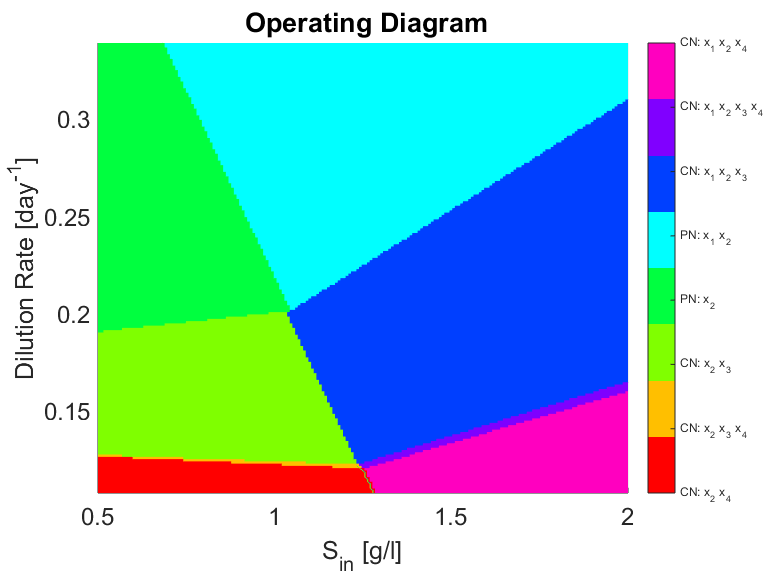
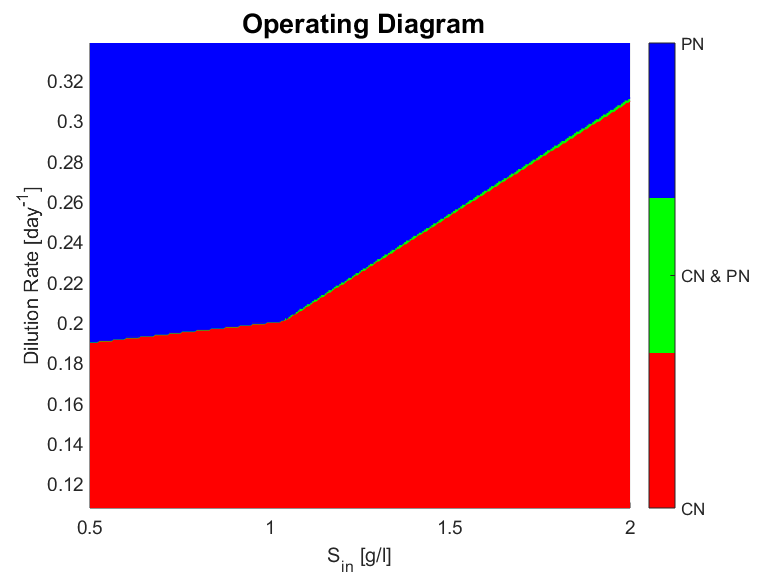
final changes to OD

diff --git a/tex/Article_Interactions.tex b/tex/Article_Interactions.tex
@@ -471,7 +471,7 @@ All the former discussion leads to a potential number of   $ (2^{n_1}-1)\cdot (4
 \end{align}
 
 \subsection{Local Stability and Operating Diagrams}
-For checking local asymptotic stability of the equilibria points, the Jacobian of the system is provided and evaluated at each of these points. The resulting matrix's eigenvalues must have negative real part. A general formula for this Jacobian is presented in the supplementary material.
+For checking local asymptotic stability of the equilibria points, the Jacobian of the system is provided and evaluated at each of these points. The resulting matrix's eigenvalues must have negative real part. A general formula for this Jacobian is presented in the supplementary material \eqref{Jacobian_system}.
 
 The former discussion proposes an algorithm for finding the positive stable equilibrium points 
 
@@ -490,13 +490,13 @@ The former discussion proposes an algorithm for finding the positive stable equi
 
 Algorithm \ref{StabilityAnalysis} implicitly assumes that every submatrix $A'$ is invertible.
 
-Operating diagrams are an illustrative way of representing the long term behaviour of a reactor depending on operating parameters. Operating diagrams are created by running algorithm \ref{StabilityAnalysis} for different pairs $(s_{in},D)$ \cite{lobry2017chemostat}. One then regroups all the pairs such that the set of non-active coordinates of the points of the set $PSP$ are the same and have the same stability properties. This regrouping represents graphically the coexistence of the different OTU in a $D-s_{in}$ plot. In particular for the biological process of nitrification, this allows to represent when partial nitrification (PN) or complete nitrification (CN) may arise \cite{KHIN2004519}. PN refers to the state when nitrite $s_2$, accumulates because the OTU of $G_2$ concentration is very low and thus almost no conversion from $s_2$  to $s_3$ takes place. On the contrary CN is when nitrate ($s_3$) accumulates because of the presence of OTU of $G_2$.
+Operating diagrams are an illustrative way of representing the long term behaviour of a reactor depending on operating parameters. Operating diagrams are created by running algorithm \ref{StabilityAnalysis} for different pairs $(s_{in},D)$ \cite{lobry2017chemostat}. One then regroups all the pairs such that the set of non-active coordinates of the points of the set $PSP$ are the same and have the same stability properties. This regrouping allows to represent when partial nitrification (PN),complete nitrification (CN), or washout (WO) may arise \cite{KHIN2004519}. PN refers to the state when nitrite $s_2$, accumulates because the OTU of $G_2$ concentration is very low (washout of $G_2$) and thus almost no conversion from $s_2$  to $s_3$ takes place. On the contrary CN is when nitrate ($s_3$) accumulates because of the presence of OTU of $G_2$.
 
 The operating diagram from one of the sets of the parameter identification (obtained with a Bayesian estimation method) from Dumont et al. is presented in figure \ref{OD Dumont}. Their fit describes well the dynamics of the OTU, but is not the case for measured substrates. Two OTU per functional group were considered. One can see that coexistence in the same functional group is never attained for one of the parameter set obtained (their method provided several sets of parameters). On the contrary, when using a random interaction matrix, and modifying the kinetic coefficients  (note that $x_1$ and $x_3$ have the same $\mu_i$ and $K_i$ in case 1 and 2) one can see a more complex situation where coexistence in the same functional group is possible as seen in figure \ref{OD modified}. In the latter case CN can be achieved at a more elevated dilution rate than in the former case. Parameters of cases 1 and 2 can be seen in table \ref{Parameters Dumont} and \ref{Parameters Modified}, respectively. 
 
 The model is also  able to overcome the  competitive exclusion principle \cite{lobry2017chemostat} (CEP) paradigm. The CEP roughly states that if two species are growing on the same limiting resource, and their growth laws are non-decreasing in the resource, then only one of them will survive in the long run. However reports on wastewater treatment plants have shown coexistence between species in nitrifying reactors \cite{Wagner2002}, thus implying that a more complex growth law or model structure involving other biological processes is required to include microbial diversity.
 
-As shown in operating diagram \ref{Parameters Modified}, there exists a bi stability zone, which is corroborated from a simulation: depending on the initial conditions of the system the predicted outcome might vary. The therefores
+As shown in operating diagram \ref{Parameters Modified}, there exists a bi stability zone, which is corroborated from a simulation: depending on the initial conditions of the system the predicted outcome might vary.
 
 \begin{table}[ht]
 	\centering
@@ -548,6 +548,10 @@ As shown in operating diagram \ref{Parameters Modified}, there exists a bi stabi
 	\end{subfigure}
 	\caption{Left: random interaction matrix associated with model \eqref{system} for a consortia of 4 bacterial species where $x_1$ and $x_2$ are AOB and $x_3$ and $x_4$ are NOB. Right: associated operating diagram with parameters in Table \ref{Parameters Modified}. The 8 different zones represent the surviving species in the steady state. PN takes place when neither $x_3$ nor $x_4$ are present. CN takes place if $x_3$ or $x_4$ are present.}
 	\label{OD modified}
+\end{figure}
+
+\begin{figure}
+		\includegraphics[width=\textwidth]{ED_parameters_modified}
 \end{figure}
 \clearpage
 
@@ -1204,9 +1208,9 @@ x \rightarrow & \diag(f(s))\left(1_{n\times 1}+ Ax\right)-D_{n\times 1}
 \end{align*}
 
 The first $n$ equations of system \eqref{system} may be written then as$\dot{x} =  h(x) = h_1(\diag(x), h_2(x))$, by the chain rule: 
-\begin{align*} J_h(x) &= D_M h_1(\diag(x),h_2(x))\circ D_x \diag (x) + D_yh_1(\diag(x),h_2(x))\circ D_xh_2(x)  \\ &=
+\begin{align} J_h(x) &= D_M h_1(\diag(x),h_2(x))\circ D_x \diag (x) + D_yh_1(\diag(x),h_2(x))\circ D_xh_2(x)  \\ &=
 \diag(h_2(x))+\diag(x)\diag(f(s))A  \label{n2_entries}
-\end{align*}
+\end{align}
 
 Expression \eqref{n2_entries} corresponds to the first $n\times n$ entries of the Jacobian of system \eqref{system}.
 
@@ -1216,13 +1220,16 @@ f_B' := \left( \dfrac{\partial f_{n_1+1}}{\partial s_2}, \dots, \dfrac{\partial 
 \end{align*}
 
 Then the Jacobian of the system may be expressed as:
-$J(x,s_1,s_2,s_3) = \begin{bmatrix}
+\begin{align}
+\label{Jacobian_system}
+ J(x,s_1,s_2,s_3) = \begin{bmatrix}
 J_{11} & J_{12} & J_{13} & J_{14} \\
 J_{21} & J_{22} & J_{23} & J_{24} \\
 J_{31} & J_{32} & J_{33} & J_{34} \\
 J_{41} & J_{42} & J_{43} & J_{44} 
-\end{bmatrix} $
-
+\end{bmatrix} 
+\end{align} 
+with 
 \begin{align}
 J_{11} &=  \diag(\diag(f(s))(1_{n\times 1} +Ax)-D_{n\times 1})
 +\diag(f(s))\diag(x)A \\

diff --git a/Stability Analysis gLV/test_equilibria.m b/Stability Analysis gLV/test_equilibria.m
@@ -6,17 +6,17 @@ load(sprintf('MAT_files\\%s',file_name_in));
 z0 = random('Uniform',0,1,n+3,1);
 OTU = 1:n;
 options = odeset('NonNegative',1:(nA+nB+3));
-dilution = 0.1993;
+dilution = 0.2906 ;
 D = @(t) dilution;
-s_in = 1.035;
+s_in = 1.829;
 sIn = @(t) s_in;
-tF = 2000;
+tF = 20000;
 fun =  dynamic(A,nA,nB,kA,kB,muA,muB,kSA,kSB,D,sIn);
 [T,Y] = ode15s(fun,[0 tF], z0,options);
 end_point_string = sprintf('%1.4f ', Y(end,:)');
 eval_end_point =  fun(tF,Y(end,:)');
 eval_end_point_string = sprintf('%1.4f ', eval_end_point);
-fprintf('Trajectory at T= %d \n Point =%s \n Evaluated in dynamic = %s',...
+fprintf('Trajectory at T= %d \n Point =%s \n Evaluated in dynamic = %s\n',...
     tF, end_point_string,eval_end_point_string);
 [possible_x, possible_s1, possible_s2, possible_s3]  = equilibria(A,...
     nA,nB,kA,kB,muA,muB,kSA,kSB,dilution,s_in);
@@ -24,15 +24,16 @@ possible_equilibria = [possible_x; possible_s1; possible_s2; possible_s3];
 num_equilibria = 0;
 
 for i=1:length(possible_equilibria(1,:))
-if all(possible_equilibria(:,i) >=0) && isreal(possible_equilibria(:,i))
-    num_equilibria = num_equilibria +1;
-    fprintf('\n Positive Equilibrium %d =', num_equilibria);
-    disp(possible_equilibria(:,i)')
-    J = dynamic_jacobian(possible_equilibria(:,i),A,nA,nB,kA,kB,muA,muB,kSA,kSB,dilution);
-     eigenvalues = eig(J);
-     if all(real(eig(J)) <0)
-         fprintf('Equilibrium %d: Stable Equilibrium! \n Eigenvalues of the Jacobian in the Equilibrium : \n', num_equilibria);
-         disp(eigenvalues)
-     end
-end
+    if all(possible_equilibria(:,i) >=0) && isreal(possible_equilibria(:,i))
+        num_equilibria = num_equilibria +1;
+%         fprintf('\n Positive Equilibrium %d =', num_equilibria);
+%         disp(possible_equilibria(:,i)')
+        J = dynamic_jacobian(possible_equilibria(:,i),A,nA,nB,kA,kB,muA,muB,kSA,kSB,dilution);
+        eigenvalues = eig(J);
+        if all(real(eigenvalues) <0)
+            disp(possible_equilibria(:,i)')
+            fprintf('Equilibrium %d: Stable Equilibrium! \n Eigenvalues of the Jacobian in the Equilibrium : \n', num_equilibria);
+            disp(eigenvalues)
+        end
+    end
 end

diff --git a/Stability Analysis gLV/plot_operating_diagram.m b/Stability Analysis gLV/plot_operating_diagram.m
@@ -1,13 +1,14 @@
 clear
 close all
-file_name_in = 'parameters_modified_2';
+file_name_in = 'parameters_modified';
 load(sprintf('MAT_files\\Operating_Diagram_%s',file_name_in))
 figure;
 present_zones = unique(zones);
 number_of_zones = length(present_zones);
-cmap1 = cool(number_of_zones);
+cmap1 = hsv(number_of_zones);
 [X,Y] = meshgrid(s_in_vector,D_vector);
-surfc(X,Y,zones','EdgeColor','none','LineStyle','none','FaceLighting','phong');%view(2)
+surfc(X,Y,zones','EdgeColor','none','LineStyle','none','FaceLighting','phong');
+%view(2)
 colormap(cmap1)
 %     tick_labels = {'Partial Nitrification','Complete Nitrification'};
 %     tick_position = [0.2, 0.8]+1;

diff --git a/Stability Analysis gLV/operating_diagram.m b/Stability Analysis gLV/operating_diagram.m
@@ -1,8 +1,8 @@
 close all
 clear
-file_name_in = 'parameters_modified_2';
+file_name_in = 'parameters_modified';
 load(sprintf('MAT_files\\%s',file_name_in));
-file_name_out = 'parameters_modified_2';
+file_name_out = 'parameters_modified';
 number_of_points = 300;
 d_initial = 0.7/6.5;
 d_final =  2.2/6.5;
